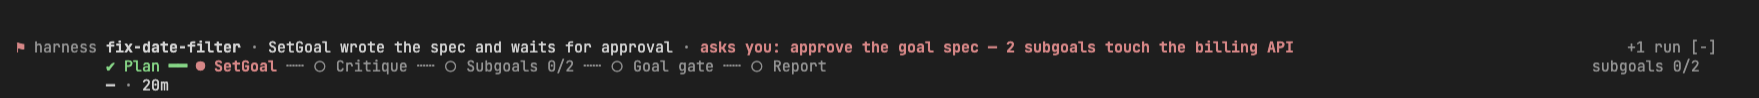
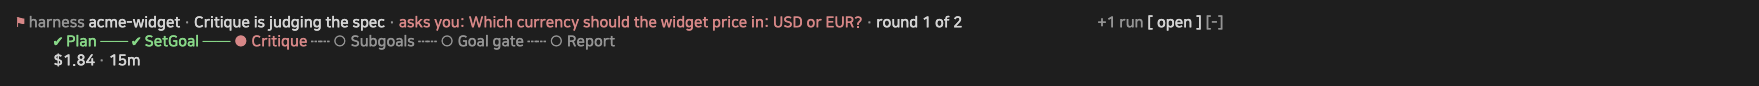
harness: /harness-status toggles the pane, band [ open ] opens it (cards 55, 56)
/harness-status closes the pane when it is open (the command again); the band
gains an [ open ] affordance that opens it. Tests, README/KOR and band image updated.

diff --git a/harness/hooks/mod.tsx b/harness/hooks/mod.tsx
@@ -4,12 +4,12 @@ import type { EngineInterface, Register } from 'claude-code'
 import type { Decision, HarnessRow, PaneTab, RunInfo, RunSub, StageKey } from '../types'
 import { MARK, TINT, bar, cap, fmt, isKorean, tabs } from './draw'
 import type { Mark } from './draw'
-import { DEMO_NOW, bandLines, demoRows, footerFits, innerWidth, paneContent, paneHead, parseDemoArg, renderLines, tabRowPlan } from './harness-draw'
+import { DEMO_NOW, bandLines, cells, demoRows, footerFits, innerWidth, paneContent, paneHead, parseDemoArg, renderLines, tabRowPlan } from './harness-draw'
 import type { PaneCtx, TabLabels } from './harness-draw'
 import type { RowFailure } from './status'
 import {
   cycleRun, failureToast, failuresOf, flowLines, frozenOrder, listArgv, markLooked, openTab, otherRunLabel, parseRow, parseRows,
-  paneKey, pickRun, reasonFor, runPosition, shownRows, showArgv, spinnerPlan, stageStatus,
+  paneKey, paneSlash, pickRun, reasonFor, runPosition, shownRows, showArgv, spinnerPlan, stageStatus,
 } from './status'
 
 const last = atom({ plugin: 'harness', key: 'last' } as const, null as Decision | null)
@@ -54,7 +54,7 @@ const en = {
   tryNo: 'attempt {n}', resPassed: 'passed · {n} tries', resFailed: 'failed · {n} tries', resNone: 'not judged yet', stalled: 'stalled: the retry changed nothing',
   gateRejected: 'gate {n}: rejected', gatePassed: 'gate {n}: passed', critiqueRejected: 'Critique rejected', rules: 'Gate rules',
   goalGate: 'Goal gate', passBar: '{pct}% (pass ≥ {bar})', more: '+{n} more',
-  noRun: 'No harness run in this folder.', closeBtn: 'q',
+  noRun: 'No harness run in this folder.', closeBtn: 'q', bandOpen: 'open',
   cmdDesc: 'Open or close the harness status pane: run flow and detail, why the gate denied the last call', paneOpened: 'pane opened', paneClosed: 'pane closed',
   noGate: 'No gate configured: .claude/harness-gate.json is not in this project.',
   badGate: 'Gate config .claude/harness-gate.json could not be read (invalid JSON).',
@@ -78,7 +78,7 @@ export const STRINGS: Record<'en' | 'ko', Record<keyof typeof en, string>> = {
     tryNo: '{n}번째 시도', resPassed: '통과 · {n}회 시도', resFailed: '실패 · {n}회 시도', resNone: '아직 판정 전', stalled: '멈춤: 재시도로 달라진 것이 없음',
     gateRejected: '게이트 {n}: 반려', gatePassed: '게이트 {n}: 통과', critiqueRejected: '비평 반려', rules: '게이트 규칙',
     goalGate: '목표 게이트', passBar: '{pct}% (통과 ≥ {bar})', more: '+{n}건 더',
-    noRun: '이 폴더에 하네스 실행이 없습니다.', closeBtn: 'q',
+    noRun: '이 폴더에 하네스 실행이 없습니다.', closeBtn: 'q', bandOpen: '열기',
     cmdDesc: '하네스 상태 창 열기/닫기: 실행 흐름과 상세, 게이트가 마지막 호출을 막은 이유', paneOpened: '창을 열었습니다', paneClosed: '창을 닫았습니다',
     noGate: '게이트 설정 없음: 이 프로젝트에 .claude/harness-gate.json 이 없습니다.',
     badGate: '게이트 설정 .claude/harness-gate.json 을 읽을 수 없습니다 (JSON 오류).',
@@ -348,6 +348,20 @@ async function paneOpen($: EngineInterface): Promise<boolean> {
   }
 }
 
+// The one place the pane is opened from closed, for the command and the band's button alike: the run opening order
+// picks is the run shown from here on, by slug (marking its reject as seen must not move it). Open already: no-op.
+async function openPane($: EngineInterface): Promise<void> {
+  if (await paneOpen($)) return
+  frozen = null // a pane opened from closed orders again: an unseen reject leads
+  const v = await view($)
+  await update($, selected, () => v.picked?.slug ?? null)
+  await update($, paneTab, () => openTab(v.picked !== null))
+  await update($, looked, l => markLooked(l, v.picked))
+  await $.ui.open({ id: PANE, title: 'Harness', focus: true, closeOnEscape: true })
+  await refreshRun($)
+  await kick?.()
+}
+
 // Set at session.start of a session that has a surface, to look at the spinner again with that session's engine (a
 // timer is started from it, not from a command or a draw); no surface, never set, no timer. A cache a reload may lose.
 let kick: (() => Promise<void>) | null = null
@@ -575,19 +589,14 @@ export const register: Register = on => {
       frozen = null
       await refresh($)
     }
-    if (!isOpen) frozen = null // a pane opened from closed orders again: an unseen reject leads
     if (want === 'off') return { text: text.demoOff }
-    const v = await view($)
-    // the run opening order picks is the run shown from here on, by slug: marking its reject as seen must not move it
-    const slug = v.picked?.slug ?? null
-    await update($, selected, () => slug)
-    if (!isOpen) {
-      await update($, paneTab, () => openTab(v.picked !== null))
-      await update($, looked, l => markLooked(l, v.picked))
-      await $.ui.open({ id: PANE, title: 'Harness', focus: true, closeOnEscape: true })
-    }
-    await refreshRun($)
-    await kick?.()
+    if (isOpen) {
+      // a demo switch while open: the run shown is picked again, by slug
+      const v = await view($)
+      await update($, selected, () => v.picked?.slug ?? null)
+      await refreshRun($)
+      await kick?.()
+    } else await openPane($)
     return { text: want === null ? text.paneOpened : fmt(text.demoOn, { name: want }) }
   })
 
@@ -613,13 +622,22 @@ export const register: Register = on => {
     const tabRow = tabs(ui, plan.items, tab, k => update($, paneTab, () => k as PaneTab))
     // `[` and `]` cannot be a Button hotkey (one digit or lowercase letter; the engine refuses them): the pane's Input has
     // the focus ring when the pane is opened with focus (the moment hotkeys are armed), takes every printable key, and
-    // status.ts paneKey reads the last one; prev / next are Buttons for the pointer
+    // status.ts paneKey reads the last one; prev / next are Buttons for the pointer. The same Input takes a typed
+    // `/command` (card 55): held until Enter (paneKey fires no key on text holding `/`), then paneSlash maps it:
+    // `/harness-status` closes the pane, `/name args` runs that command. $.command.run is not awaited: awaited inside
+    // onSubmit the host cuts the hook at its 10s budget.
     const onKey = async (text: string) => {
       const key = paneKey(text)
       if (key === null) return
       if (key.kind === 'step') await cycle($, key.by)
       else if (key.kind === 'tab') await update($, paneTab, () => key.tab)
       else await $.ui.close({ id: PANE })
+    }
+    const onSubmit = async (text: string) => {
+      const slash = paneSlash(text)
+      if (slash === null) return
+      if (slash.kind === 'close') await $.ui.close({ id: PANE })
+      else void $.command.run({ command: slash.command, args: slash.args }).catch(() => {})
     }
     // prev/next join the keys row only where harness-draw's footerFits says they fit (the keys stay one row; [ and ] still step)
     const steps =
@@ -749,7 +767,7 @@ export const register: Register = on => {
           {closeBtn}
           <Box flexShrink={0}><Text dimColor wrap="truncate-end">{s('keysTail')}</Text></Box>
           {steps}
-          <Box flexShrink={1} height={1} overflow="hidden"><Input key="keys" autoFocus value="" placeholder="" onInput={onKey} onSubmit={() => {}} /></Box>
+          <Box flexShrink={1} height={1} overflow="hidden"><Input key="keys" autoFocus value="" placeholder="" onInput={onKey} onSubmit={onSubmit} /></Box>
         </Box>
       </Box>
     )
@@ -761,10 +779,15 @@ export const register: Register = on => {
     const v = await view($)
     if (e.props.hasSurvey || v.ordered.length === 0) return next(e)
     const { Box, Text, Button } = $.ui.resolve(e)
-    const lines = bandLines(v.ordered, { width: e.props.bodyColumns, nowMs: v.nowMs, tick: await read($, spin) })
+    const label = STRINGS[await read($, lang)].bandOpen
+    const [row1, ...rest] = bandLines(v.ordered, { width: e.props.bodyColumns, nowMs: v.nowMs, tick: await read($, spin), reserve: cells(label) + 5 }) // the Button draws `[ label ]` (4 cells of chrome) after a 1-column margin
     return (
       <Box flexDirection="column">
-        {renderLines({ Box, Text, Button }, lines)}
+        <Box>
+          <Box flexShrink={1}>{renderLines({ Box, Text, Button }, [row1])}</Box>
+          <Box flexShrink={0} marginLeft={1}><Button key="open" label={label} onPress={() => openPane($)} /></Box>
+        </Box>
+        {renderLines({ Box, Text, Button }, rest)}
         {await next(e)}
       </Box>
     )

diff --git a/harness/hooks/mod.test.ts b/harness/hooks/mod.test.ts
@@ -2,7 +2,7 @@ import { expect, mock, test } from 'claude-code/testing'
 import type { Engine } from 'claude-code/testing'
 import type { On } from 'claude-code'
 
-import { DEMO_NOW, DEMO_SCENARIOS, bandLines, demoRows, plain, renderDemo } from './harness-draw'
+import { DEMO_NOW, DEMO_SCENARIOS, bandLines, cells, demoRows, plain, renderDemo } from './harness-draw'
 import { register } from './mod'
 import { openingOrder } from './status'
 
@@ -462,6 +462,32 @@ test('close 3/3: the command again closes an open pane, a third time opens it', 
   expect(seen.opened).toEqual(['harness-status', 'harness-status'])
 })
 
+// card 55: the pane's autoFocus Input takes a typed slash command; held until Enter, then mapped by status.ts paneSlash
+test('typed /harness-status closes: /harness-status typed into the pane holds the keys, and its submit closes the pane', async ($, on) => {
+  mock.clock(on, { now: NOW })
+  const seen = world(on, ['terminal'], { [CONFIG]: cfg })
+  await start($)
+  const ui = await pane($, 'terminal')
+  await ui.input({ key: 'keys', text: '/harness-status', kind: 'change' })
+  expect(seen.closed).toEqual([]) // the q, [ and digits inside slash text press nothing
+  await ui.input({ key: 'keys', text: '/harness-status', kind: 'submit' })
+  expect(seen.closed).toEqual(['harness-status'])
+})
+
+test('a /name args typed into the pane runs that command, not awaited; text with no slash submits nothing', async ($, on) => {
+  mock.clock(on, { now: NOW })
+  const seen = world(on, ['terminal'], { [CONFIG]: cfg })
+  const ran: unknown[] = []
+  on('command.run', { command: 'help' }, (_$, e) => { ran.push(e.args); return { text: 'ok' } as never })
+  await start($)
+  const ui = await pane($, 'terminal')
+  await ui.input({ key: 'keys', text: '/help q 2', kind: 'change' })
+  await ui.input({ key: 'keys', text: '/help q 2', kind: 'submit' })
+  await ui.input({ key: 'keys', text: 'x', kind: 'submit' })
+  expect(ran).toEqual(['q 2'])
+  expect(seen.closed).toEqual([])
+})
+
 test('the old command name is gone', async ($, on) => {
   mock.clock(on, { now: NOW })
   const seen = world(on, ['terminal'], { [CONFIG]: cfg })
@@ -817,6 +843,7 @@ test('band: hidden with no open runs', async ($, on) => {
   await start($)
   const ui = await band($, on)
   expect(await ui.find({ type: 'Text', text: 'harness' })).toBeUndefined()
+  expect(await ui.find({ type: 'Button' })).toBeUndefined()
 })
 
 test('band: hidden while a survey shows', async ($, on) => {
@@ -868,6 +895,51 @@ test('band at 110: low-priority segments drop first; the run name and ⚑ only t
   expect(rows[0]).toContain('…')
   expect(rows[0]).toContain('+1')
 })
+
+// the band's open Button (card 56): one Button on row 1, pressed it opens the pane the way the command does
+for (const [language, label, reserve] of [['English', 'open', 9], ['한국어', '열기', 9]] as const) {
+  test(`band button (${language}): one "${label}" Button; a press opens harness-status with focus on the command's tab`, async ($, on) => {
+    const seen = await seeded($, on, {}, { language, rows: [csv()] })
+    const ui = await band($, on)
+    const buttons = await ui.findAll({ type: 'Button' })
+    expect(buttons.map(b => (b.props as { label: string }).label)).toEqual([label])
+    expect(seen.opened).toEqual([])
+    await ui.press({ key: 'open' })
+    expect(seen.opened).toEqual(['harness-status'])
+    expect(seen.openArgs[0]).toMatchObject({ id: 'harness-status', title: 'Harness', focus: true, closeOnEscape: true })
+    // the same tab the command opens: a run is open, so Now
+    expect(seen.store.get('paneTab')).toBe('now')
+    expect(reserve).toBe(cells(label) + 5)
+  })
+}
+
+test('band button: pressed with the pane already open it opens no second pane', async ($, on) => {
+  const seen = await seeded($, on, {}, { rows: [csv()] })
+  const ui = await band($, on)
+  await ui.press({ key: 'open' })
+  await ui.press({ key: 'open' })
+  expect(seen.opened).toEqual(['harness-status'])
+  expect(seen.panes).toHaveLength(1)
+  await cmd($) // the command now closes it, as before
+  expect(seen.closed).toEqual(['harness-status'])
+})
+
+for (const width of [110, 190]) {
+  for (const [language, label] of [['English', 'open'], ['한국어', '열기']] as const) {
+    test(`band button at ${width} (${language}): every row, row 1 with the drawn button, fits by display cells and the band is still three rows`, async ($, on) => {
+      const ask = { who: 'you', what: 'approve the goal spec before critique round two starts and the large report subgoal begins building' }
+      await seeded($, on, {}, { language, rows: [rowJson('a-very-long-run-name-that-would-not-fit-with-its-doing-sentence', { waiting: ask, stage: 'setgoal', now: nowJson({ waiting: ask, round: 2 }) }), acting('b')] })
+      const ui = await band($, on, false, width)
+      const rows = linesOf(await ui.drawn())
+      expect(rows.slice(0, 3)).toHaveLength(3)
+      // drawn() holds the text, not the Button: add the 1-column margin and `[ label ]` (label cells + 4), in cells (CJK = 2)
+      expect(cells(rows[0]!) + cells(label) + 5).toBeLessThanOrEqual(width)
+      expect((await ui.findAll({ type: 'Button' })).map(x => (x.props as { label: string }).label)).toEqual([label])
+      expect(rows[0]).toMatch(/\+1( runs?)?$/) // the fixed segment (compact at 110) is not the one cut
+      for (const l of rows.slice(1, 3)) expect(cells(l)).toBeLessThanOrEqual(width)
+    })
+  }
+}
 
 // ---- the run list: read through node, kept when a read fails ----
 const doing = (slug: string, text: string, o: object = {}) => acting(slug, { now: nowJson({ doing: text }), ...o })
@@ -1195,7 +1267,7 @@ for (const scenario of DEMO_SCENARIOS) {
     const text = await textOf(await pane($, 'terminal', 194))
     expect(text).toContain(ordered[0]!.slug)
     // the band's rows are what the pure function draws for the fixture at this width
-    const want = bandLines(ordered, { width: 190, nowMs: DEMO_NOW, tick: 0 }).map(plain)
+    const want = bandLines(ordered, { width: 190, nowMs: DEMO_NOW, tick: 0, reserve: 9 }).map(plain)
     expect(linesOf(await (await band($, on)).drawn()).slice(0, 3)).toEqual(want)
     expect(lastStatus(seen)).toBeUndefined() // no live rows open: the demo rows are not counted
   })

diff --git a/harness/hooks/status.test.ts b/harness/hooks/status.test.ts
@@ -6,7 +6,7 @@ import type { PaneCtx } from './harness-draw'
 import {
   NONE, clock, costText, countsText, cycleRun, doingText, elapsedText, failureToast, failuresOf, flowLines, frozenOrder, hasNewReject, inStageText,
   isActing, lastStep, listArgv, markLooked, normalizeRow, openTab, openingOrder, otherRunLabel, parseRow, parseRows, pickRun, railItems, rankedProblems, reasonFor, restText,
-  paneKey, roundHeading, roundText, runCount, runPosition, runState, severityOf, shownRows, showArgv, sinceLast, span, spinnerPlan, stageLabel, topFinding, youLine,
+  paneKey, paneSlash, roundHeading, roundText, runCount, runPosition, runState, severityOf, shownRows, showArgv, sinceLast, span, spinnerPlan, stageLabel, topFinding, youLine,
   doingOf, restLine, stageStatus,
 } from './status'
 
@@ -508,4 +508,18 @@ test('paneKey: ] is step +1, [ is step -1, 1-4 pick a tab, q closes; the last ch
   expect(paneKey('x[')).toEqual({ kind: 'step', by: -1 })
   expect(paneKey('[x')).toBeNull()
   for (const bad of ['', 'p', 'n', 'x', '5', 'Q', null, undefined, 3, {}, [']']]) expect(paneKey(bad)).toBeNull()
+})
+
+test('slash text holds the pane keys: a / anywhere in the text fires no key, even when it ends in q, a digit or a bracket', () => {
+  for (const t of ['/harness-status', '/help q', '/x 2', '/a [', '][2q/help', '/']) expect(paneKey(t)).toBeNull()
+  expect(paneKey('q')).toEqual({ kind: 'close' })
+})
+
+test('paneSlash: /harness-status closes (the command again), /name args runs, the text may start with earlier key presses, the rest is dropped', () => {
+  expect(paneSlash('/harness-status')).toEqual({ kind: 'close' })
+  expect(paneSlash('][2q/harness-status ')).toEqual({ kind: 'close' })
+  expect(paneSlash('/help')).toEqual({ kind: 'run', command: 'help', args: '' })
+  expect(paneSlash('/x a b')).toEqual({ kind: 'run', command: 'x', args: 'a b' })
+  expect(paneSlash('[/x  a b ')).toEqual({ kind: 'run', command: 'x', args: 'a b' })
+  for (const bad of ['', 'x', '/', '/ x', '//', null, undefined, 3]) expect(paneSlash(bad)).toBeNull()
 })

diff --git a/harness/hooks/status.ts b/harness/hooks/status.ts
@@ -437,12 +437,27 @@ export type PaneKey = { kind: 'step'; by: 1 | -1 } | { kind: 'tab'; tab: PaneTab
 const KEY_TABS: Record<string, PaneTab> = { '1': 'now', '2': 'flow', '3': 'findings', '4': 'rules' }
 
 // `[` / `]` step the run, `1`-`4` pick a tab, `q` closes; any other text (or none, or a non-string) is no key.
+// Text holding a `/` is a slash command being typed (`/harness-status`, `/help q`): held, no key fires until submit.
 export function paneKey(text: unknown): PaneKey {
-  if (typeof text !== 'string' || text === '') return null
+  if (typeof text !== 'string' || text === '' || text.includes('/')) return null
   const k = [...text].pop()!
   if (k === ']') return { kind: 'step', by: 1 }
   if (k === '[') return { kind: 'step', by: -1 }
   if (k === 'q') return { kind: 'close' }
   const tab = KEY_TABS[k]
   return tab === undefined ? null : { kind: 'tab', tab }
+}
+
+// A slash command typed into the pane's Input and submitted. The Input's buffer may start with earlier key presses
+// (`][2q/help`), so the command starts at the first `/`. `/harness-status` closes the pane (the command again toggles);
+// `/name args` runs that command; anything else is dropped.
+export type PaneSlash = { kind: 'close' } | { kind: 'run'; command: string; args: string } | null
+
+export function paneSlash(text: unknown): PaneSlash {
+  if (typeof text !== 'string') return null
+  const at = text.indexOf('/')
+  if (at < 0) return null
+  const m = /^\/([^\s/]+)\s*(.*)$/.exec(text.slice(at).trim())
+  if (m === null) return null
+  return m[1] === 'harness-status' ? { kind: 'close' } : { kind: 'run', command: m[1]!, args: m[2]! }
 }

diff --git a/harness/hooks/harness-draw.tsx b/harness/hooks/harness-draw.tsx
@@ -362,7 +362,8 @@ const INDENT = '          ' // under `⚑ harness `, so the rows read as one blo
 
 // The band for the harness runs in opening order: the leading run's three rows (what it is doing and whether it
 // waits on you / how far / what it cost and what came back last), `+N` for the others. No graph run is drawn here.
-export function bandLines(ordered: readonly HarnessRow[], o: { width: number; nowMs: number; tick: number }): Line[] {
+// `reserve` columns at the end of row 1 are left to mod.tsx's open button.
+export function bandLines(ordered: readonly HarnessRow[], o: { width: number; nowMs: number; tick: number; reserve?: number }): Line[] {
   const r = ordered[0]
   if (r === undefined) return []
   const w = o.width
@@ -378,7 +379,7 @@ export function bandLines(ordered: readonly HarnessRow[], o: { width: number; no
     y.you ? fs(`asks you: ${y.text}`, { sep: ' · ', tint: 'claude', bold: true }) : fs(''),
     fs(roundText(r, compact), { sep: ' · ', drop: 4 }),
     more > 0 ? { ...fs(compact ? `+${more}` : `+${more} run${more > 1 ? 's' : ''}`, { sep: '  ', fixed: true, dim: true }), right: true } : fs(''),
-  ], w)
+  ], w - (o.reserve ?? 0))
   const rail = railItems(r)
   const sub = r.total > 0 ? `subgoals ${r.passed}/${r.total}` : ''
   // the rail already names the subgoals, so the right-hand count goes first when the row is tight

diff --git a/harness/README.md b/harness/README.md
@@ -272,8 +272,8 @@ harness ships a small mod: a status line with the open runs per stage, a three-r
 **Features**
 
 - **Status line**: open runs per stage, `Plan(6) / Implement(11)`. It counts this worktree's `fallback-check --list` rows (other worktrees belong to other sessions). A run untouched for 12 h is left out; with nothing open the line is empty. Gate decisions are not shown here; open `/harness-status`.
-- **Band** above the prompt: three rows for the leading harness run (harness runs only; graph runs are the graph mod's). Row 1 says what it is doing, `⚑` first when it waits on you, with the question; row 2 is the stage rail; row 3 is cost and time. `+N` counts the other open runs. Hidden when nothing is open.
-- **`/harness-status`** opens the pane on the run's Now tab (on Gate rules when no run is open); Esc or `q` closes it (typed again while the pane has focus, the command goes to the pane's input, not to the prompt). Head of the pane: **Now** (the stage or subgoal at work, dim when it is the canned sentence of the stage, with `round n of max` while the critique loops and the time in this stage), **last step** and **You** (what the run needs from you, or "nothing needed" and what comes next). Under them, the rail: every critique round is a step, `✘ Critique` then `✔ SetGoal again`, up to the round cap. Tabs are Now, Flow, Findings and Gate rules (keys `1`-`4`; the selected one is bright with a dot). With two or more runs, `[` and `]` switch runs from the keyboard (no click first) and stop at the first and the last; the tab row says how many more there are.
+- **Band** above the prompt: three rows for the leading harness run (harness runs only; graph runs are the graph mod's). Row 1 says what it is doing, `⚑` first when it waits on you, with the question; row 2 is the stage rail; row 3 is cost and time. `+N` counts the other open runs. Hidden when nothing is open. A `[ open ]` button at the end of row 1 opens the pane when clicked.
+- **`/harness-status`** opens the pane on the run's Now tab (on Gate rules when no run is open); Esc or `q` closes it, and typing `/harness-status` again closes it while the pane has focus (any other `/command` typed there runs). Head of the pane: **Now** (the stage or subgoal at work, dim when it is the canned sentence of the stage, with `round n of max` while the critique loops and the time in this stage), **last step** and **You** (what the run needs from you, or "nothing needed" and what comes next). Under them, the rail: every critique round is a step, `✘ Critique` then `✔ SetGoal again`, up to the round cap. Tabs are Now, Flow, Findings and Gate rules (keys `1`-`4`; the selected one is bright with a dot). With two or more runs, `[` and `]` switch runs from the keyboard (no click first) and stop at the first and the last; the tab row says how many more there are.
   - **Now** shows the findings of the newest critique round, worst first, and a `+n: …` line for the rest.
   - **Flow** draws each stage in order. A subgoal opens into its gate verdicts: a rejected attempt shows its reason (`↳ …`) and the retry sits one level under it. A rejected critique (`sound:false`) and a failing goal gate show theirs too.
   - **Findings** lists every critique round: its verdict, then its findings by severity (blocker, major, minor, nit), with a total over all rounds on top.
@@ -291,7 +291,7 @@ Known limitations: the status reads the gate config relative to the session's wo
 Captured from a live Claude Code 2.1.293 terminal session.
 
 ![band](docs/images/band.png)
-The band while a run waits on you: `⚑`, the question, the rail, cost and time, and `+1 run` for the other one. Glance at it to know whether the run needs you.
+The band while a run waits on you: `⚑`, the question, the rail, cost and time, `+1 run` for the other one, and the `[ open ]` button that opens the pane. Glance at it to know whether the run needs you.
 
 ![pane-now](docs/images/pane-now.png)
 The `/harness-status` Now tab of a run in its critique loop: what it is doing, the last step, what it needs from you, and the rail with the rejected rounds. It shows when you open the pane, and `[` / `]` switch runs.
